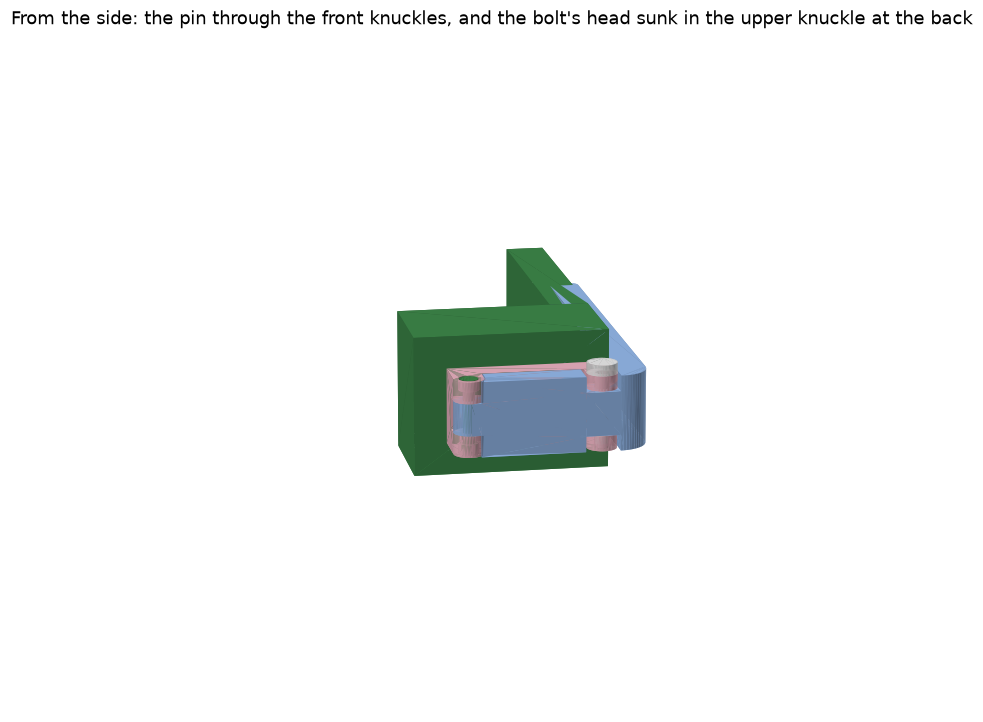
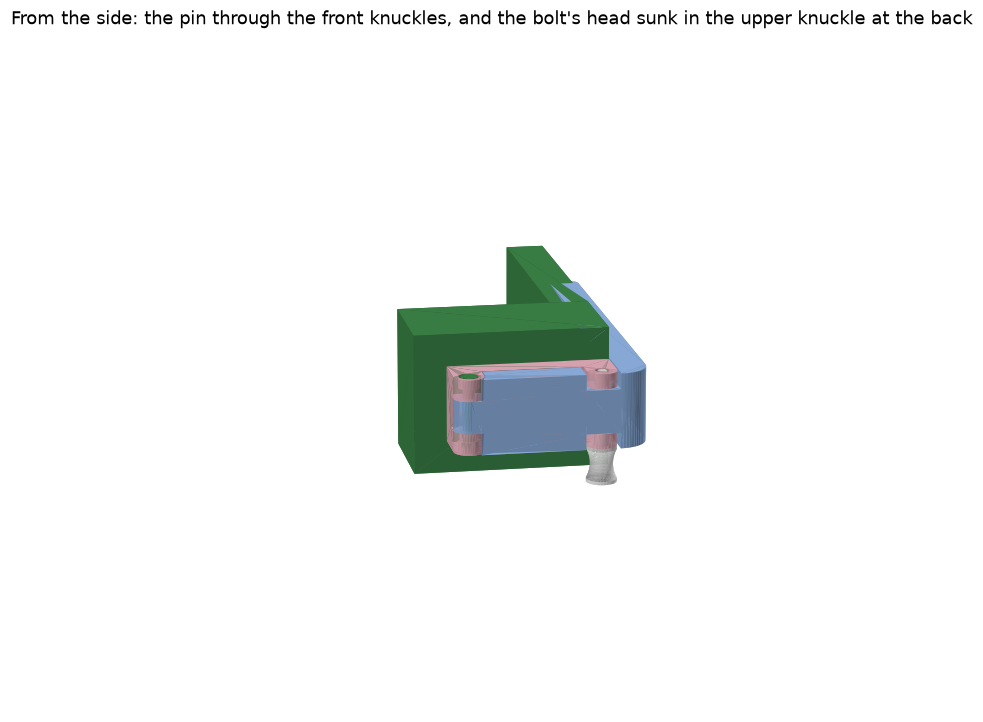
drawer-clamp: a pin that goes in from below, with a taller head that curves in for a finger and a thumb

diff --git a/parts/drawer-clamp/part.py b/parts/drawer-clamp/part.py
@@ -5,7 +5,7 @@ the top and the bottom of its back, and an M5 bolt stands upright through both. 
 between the base's two. The arm is an angle: one leg lies along the side, over the base, and the other goes round
 the corner and across the drawer's front. It swings out sideways to let the drawer go. The bolt's head is sunk in the upper knuckle and its
 locknut in a pocket in the lower one, both level with the outside, and the bolt is tightened until the arm turns stiffly.
-At its front the base has two more knuckles, and the arm's leg runs between them. A printed pin drops through the
+At its front the base has two more knuckles, and the arm's leg runs between them. A printed pin goes up through the
 three and locks the arm shut.
 
 Every size is a named constant below. Coordinates: x across from the outside of the cupboard's side, toward the
@@ -18,7 +18,7 @@ import math
 import sys
 from pathlib import Path
 
-from build123d import Align, Box, Circle, Cone, Cylinder, Pos, Rectangle, RegularPolygon, Rot, extrude
+from build123d import Align, Axis, Box, Circle, Cone, Cylinder, Face, Polyline, Pos, Rectangle, RegularPolygon, Rot, ThreePointArc, Wire, extrude, revolve
 
 # What the parts share is in lib/; put it on the path, since bin/part's PYTHONPATH is not there when this file is
 # run some other way.
@@ -41,7 +41,7 @@ LENGTH = 75  # the base, from the front of the side back
 LUG = 10  # each of the base's two knuckles, at its top and its bottom, up
 GRIP = 0.05  # between the arm's knuckle and each of the base's: less than a sliding fit, so the bolt closes the base's knuckles onto the arm's and the arm turns stiffly
 CLEAR = 0.5  # between the arm and what it lies along or turns past: the side, the drawer's front and the base
-PIN_FROM = 12  # the pin and its head, from the cupboard's side, the user's choice: an overhang above the base stands 10 mm out from the side, the user's measurement, and the pin drops in past it
+PIN_FROM = 12  # the pin and its head, from the cupboard's side, the user's choice: an overhang above the base stands 10 mm out from the side, the user's measurement, and the pin passes it
 KNUCKLE = 14  # a knuckle of the hinge, across
 BOLT = 5.0  # an M5 socket cap bolt's thread, ISO 4762
 BOLT_LENGTH = 30  # that bolt, under its head: 35 mm with its head, the user's measurement
@@ -62,9 +62,11 @@ LUG_GAP = 0.3  # between the arm and each front knuckle, above and below: it sli
 SWING = 1.5  # behind the front knuckles, to the arm's leg: room for the leg's swing round the bolt
 PIN = 6  # the pin that locks the arm, across
 PIN_ROOM = 0.25  # a side, round the pin in its hole: it slides
-PIN_POINT = 2  # the pin's lower end, which narrows by PIN_POINT / 2 a side, so it finds the holes
+PIN_POINT = 2  # the pin's upper end, which narrows by PIN_POINT / 2 a side, so it finds the holes
 PIN_HEAD = 14  # the pin's head, across: as wide as a knuckle
-PIN_HEAD_HIGH = 5  # the pin's head, up from the base's top
+PIN_RIM = 1.5  # the straight rim at the head's underside and at its top, high
+PIN_GRIP = 14  # the head between its two rims, high: its side curves in there, for a finger and a thumb
+PIN_WAIST = 10.5  # the head at the middle of that curve, across
 SHOWN = 15  # how far the pictures show the cupboard's side and the drawer's front past the clamp
 DRAWER_SHOWN = 18  # how thick the pictures show the drawer's front: it is not measured
 
@@ -86,6 +88,7 @@ ARM_OUT = ARM_IN - ARM  # the outside of that leg
 PIN_Y = RADIUS  # the pin, deep: the front knuckles end with the base's front. Across, it stands where the bolt does
 WEB_LOW = FRONT_LUG + LUG_GAP  # the underside of the arm's leg between the front knuckles, up
 WEB_HIGH = HEIGHT - FRONT_LUG - LUG_GAP  # the top of the arm's leg between the front knuckles, up
+PIN_HEAD_HIGH = 2 * PIN_RIM + PIN_GRIP  # the pin's head, down from the base's underside
 PIN_HOLE = PIN / 2 + PIN_ROOM  # the radius of the hole the pin slides through
 ARM_BACK = -CLEAR  # the back of the arm's leg across the front, which faces the side's front edge and the drawer's front
 HEAD_SINK = BOLT_HEAD_HIGH  # the hole for the bolt's head, down from the base's top: the head is level with the top
@@ -100,7 +103,7 @@ VIEWS = (
     ("angle.png", 30, -125, None),
     ("above.png", 90, -90, "From above: the arm closed, round the corner of the cupboard's side"),
     ("side.png", 15, 170, "From the side: the pin through the front knuckles, and the bolt's head sunk in the upper knuckle at the back"),
-    ("under.png", -40, 160, "From below: the locknut in its pocket in the lower knuckle"),
+    ("under.png", -40, 160, "From below: the pin's head under the front knuckle, and the locknut in its pocket in the lower knuckle at the back"),
     ("back.png", 20, -160, "From behind: the base's knuckles above and below the arm's"),
 )
 
@@ -166,12 +169,20 @@ def arm():
 
 def pin():
     """The pin that locks the arm: a round rod through the base's front knuckles and the arm's leg between them, with
-    a point below and a round head that rests on the upper knuckle."""
-    return (
-        Pos(BOLT_X, PIN_Y) * Cone(PIN / 2 - PIN_POINT / 2, PIN / 2, PIN_POINT, align=MIN)
-        + Pos(BOLT_X, PIN_Y, PIN_POINT) * Cylinder(PIN / 2, HEIGHT - PIN_POINT, align=MIN)
-        + Pos(BOLT_X, PIN_Y, HEIGHT) * Cylinder(PIN_HEAD / 2, PIN_HEAD_HIGH, align=MIN)
+    a point above and a round head under the lower knuckle. It goes in from below. The head's side curves in between two straight
+    rims: an arc from one rim to the other, through the waist."""
+    wide, waist, low = PIN_HEAD / 2, PIN_WAIST / 2, PIN_RIM
+    # The pin is made point down, with its head on top, and turned over into its place. Half the head's outline, in
+    # the plane of x and z:
+    lines = Polyline((wide, 0, low + PIN_GRIP), (wide, 0, PIN_HEAD_HIGH), (0, 0, PIN_HEAD_HIGH), (0, 0, 0), (wide, 0, 0), (wide, 0, low))
+    curve = ThreePointArc((wide, 0, low), (waist, 0, low + PIN_GRIP / 2), (wide, 0, low + PIN_GRIP))
+    outline = Wire([*lines.edges(), curve])
+    whole = (
+        Cone(PIN / 2 - PIN_POINT / 2, PIN / 2, PIN_POINT, align=MIN)
+        + Pos(0, 0, PIN_POINT) * Cylinder(PIN / 2, HEIGHT - PIN_POINT + JOIN, align=MIN)
+        + Pos(0, 0, HEIGHT) * revolve(Face(outline), Axis.Z)
     )
+    return Pos(BOLT_X, PIN_Y, HEIGHT) * Rot(180, 0, 0) * whole
 
 
 def bolt():
@@ -201,13 +212,13 @@ def main():
     # The arm prints lying as it sits, so every layer is the whole angle, and the drawer's push bends it along the
     # layers. Its knuckle and the neck to it hang LUG above the plate, so they print on supports, and so does the
     # leg between the front knuckles.
-    # The pin prints upright, standing on its head, so it is round all the way. Its layers lie across it, and the
+    # The pin prints upright as it sits, standing on its head, so it is round all the way. Its layers lie across it, and the
     # arm's pull shears them where the leg meets each front knuckle.
     plate.run(
         HERE,
         printed={"base": base(), "arm": arm(), "pin": pin()},
         bought={"bolt": bolt(), "side": side(), "drawer": drawer()},
-        turn={"base": Rot(0, 90, 0), "pin": Rot(180, 0, 0)},
+        turn={"base": Rot(0, 90, 0)},
         slicer={"arm": {"enable_support": "1"}},
         views=VIEWS,
     )

diff --git a/parts/drawer-clamp/README.md b/parts/drawer-clamp/README.md
@@ -6,8 +6,8 @@ stands upright through both, with its head sunk in the upper one and its locknut
 one, both level with the outside. An arm turns on the bolt, with its knuckle between the base's two.
 The arm is an angle, as high as the base: one leg lies along the side, over the base, and the
 other goes round the corner and across the drawer's front. At its front end the base has two more
-knuckles, with the arm's leg between them, and a printed pin drops through the three and locks
-the arm shut. With the pin lifted out the arm swings out sideways, and the drawer is free.
+knuckles, with the arm's leg between them, and a printed pin goes up through the three, from below, and locks
+the arm shut. With the pin pulled out the arm swings out sideways, and the drawer is free.
 
 ![drawer-clamp](pictures/angle.png)
 
@@ -36,7 +36,7 @@ the arm shut. With the pin lifted out the arm swings out sideways, and the drawe
 The cupboard's side is 50 mm thick, and the drawer's front is flush with its front edge.
 
 An overhang above the base stands 10 mm out from the side. The pin and its head stand 12 mm or
-more from the side, so the pin drops in past the overhang.
+more from the side. The pin goes in from below, where there is more room.
 
 The base and the arm are both 35 mm high, the bolt's length with its head.
 
@@ -77,9 +77,11 @@ to 1.5 mm behind the front knuckles, and what is left runs between them, 20.4 mm
 0.3 mm above and below. Through the arm's whole swing it stays clear of the front knuckles. The
 screw at the front lies between the two knuckles and is reached between them.
 
-The pin is 6 mm across and 35 mm long, with a point 2 mm long at its lower end. Its hole in the
+The pin is 6 mm across and 35 mm long, with a point 2 mm long at its upper end. Its hole in the
 knuckles and the leg is the pin with 0.25 mm on either side: it slides. Its head is 14 mm
-across and 5 mm high and rests on the upper knuckle. The pin and its head are round.
+across and 17 mm high and sits under the lower knuckle. The pin and its head are round. The head
+has a straight rim 1.5 mm high at its underside and at its top. Between them its side curves in
+over 14 mm, to 10.5 mm across at the middle, for a finger and a thumb.
 
 The base prints on its back. The knuckles stand up from the plate, round on top, and the
 screws' holes are upright. The bolt's hole, the hole for its head, the nut's pocket and the pin's hole lie
@@ -92,7 +94,8 @@ arm along its layers. Its knuckle and the neck to it hang 10 mm above the plate,
 between the front knuckles 7.3 mm. Both print on supports, which the plate turns on for this
 piece (`enable_support`).
 
-The pin prints upright, standing on its head, with its point up, and takes no supports. Its
+The pin prints upright, standing on its head, with its point up, and takes no supports. Above
+its waist the head's side leans out 28° from upright at most. Its
 layers lie across it, and the arm's pull shears them where the leg meets each front knuckle.
 
 ## Putting it together
@@ -105,9 +108,9 @@ layers lie across it, and the arm's pull shears them where the leg meets each fr
 4. Push the bolt down through the three knuckles and turn it into the nut with a 4 mm hex key.
 5. Tighten the bolt until the arm turns stiffly and stays where it is put.
 6. Swing the arm shut, round the corner and across the drawer's front.
-7. Drop the pin through the front knuckles, from above.
+7. Push the pin up through the front knuckles, from below.
 
-To open it, lift the pin out and swing the arm out.
+To open it, pull the pin out downward and swing the arm out.
 
 To take it off, undo the bolt, slide the arm out and take out the two screws.
 
